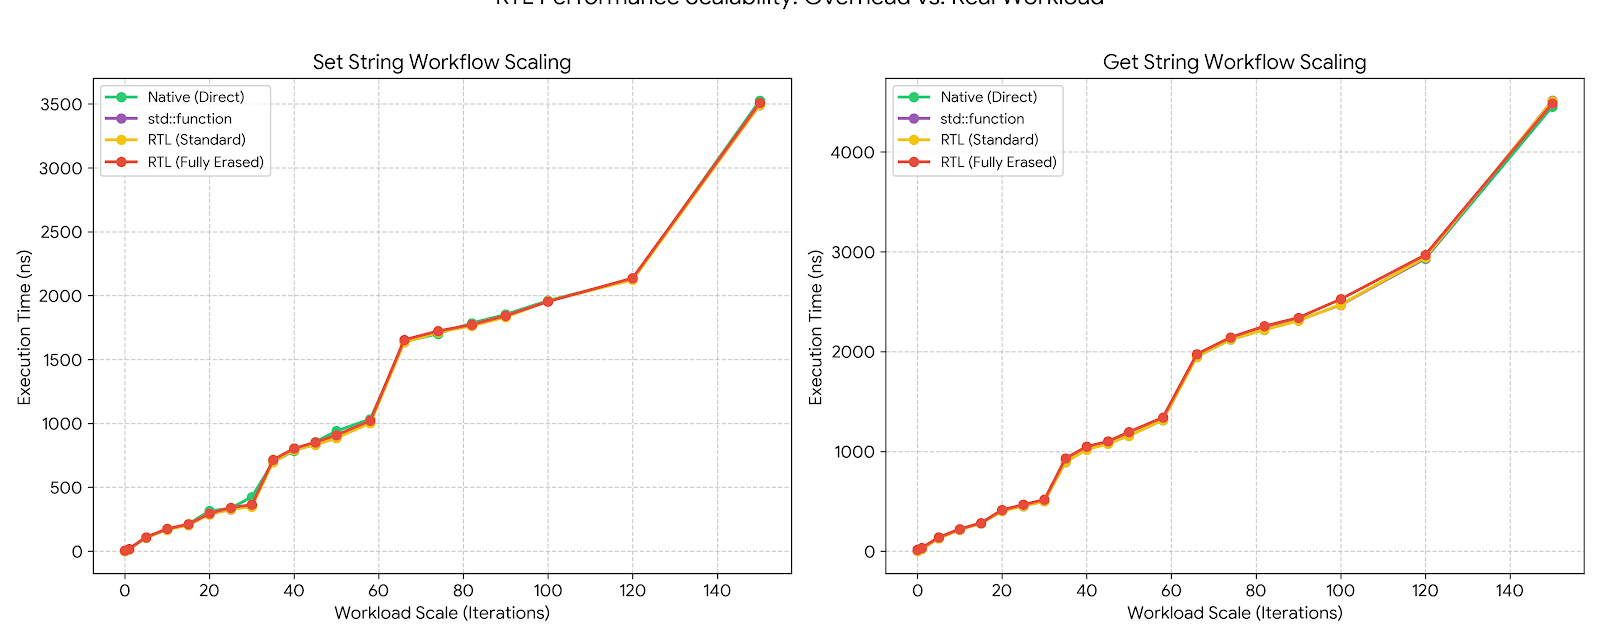
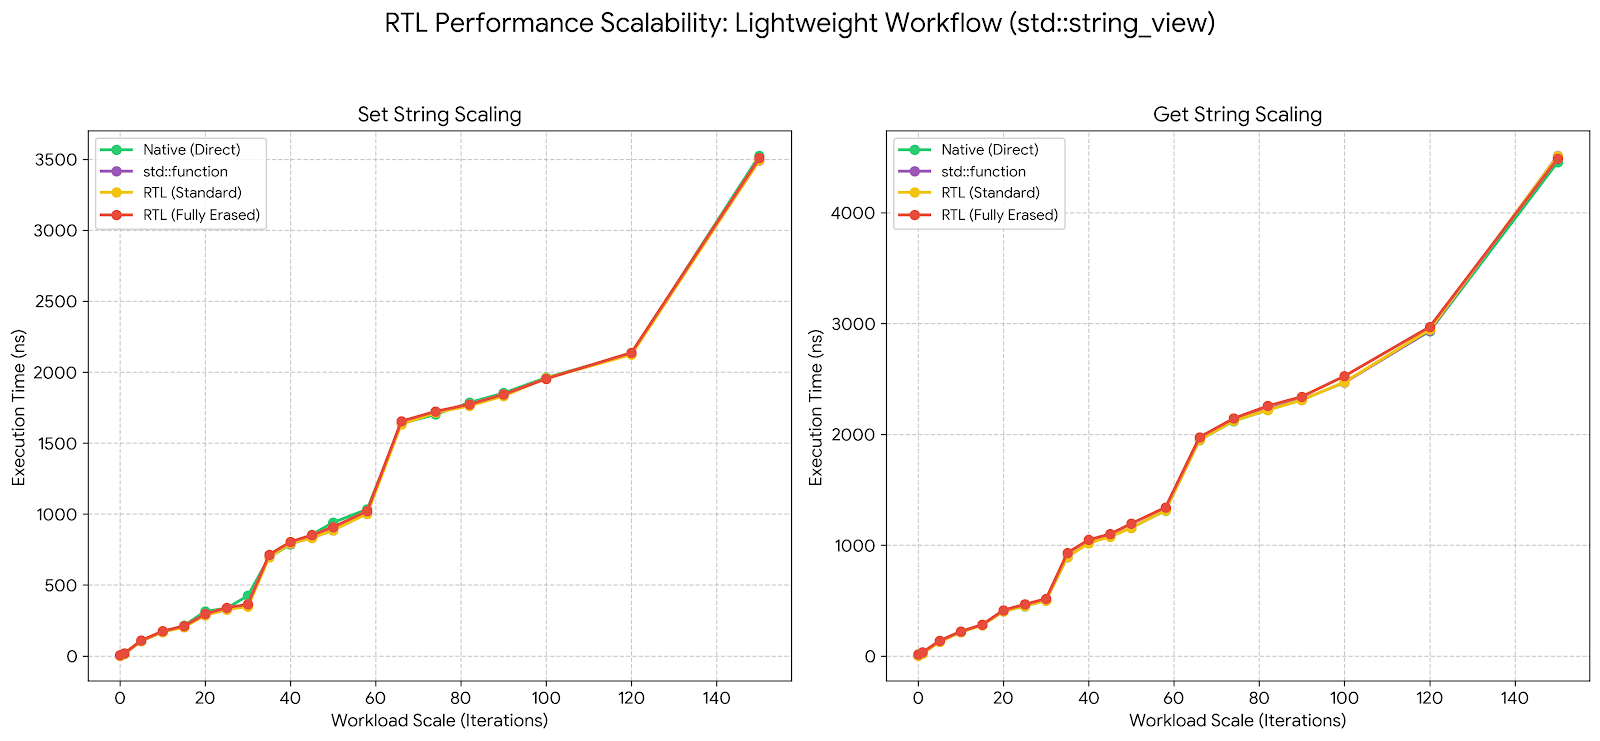
docs correction, updates.

diff --git a/docs/RTL_SYNTAX_AND_SEMANTICS.md b/docs/RTL_SYNTAX_AND_SEMANTICS.md
@@ -16,15 +16,14 @@ This guide walks you step by step through RTL’s reflection syntax.
    * [Binding an Object and Calling 🔗](#binding-an-object-and-calling)
    * [Binding Signatures and Perfect Forwarding 🎯](#binding-signatures-and-perfect-forwarding)
    * [Const vs Non-Const Method Binding ⚡](#const-vs-non-const-method-binding)
-4. [Const-by-Default Discipline 🛡](#const-by-default-discipline)
-5. [Reflective Construction and Destruction 🏗](#reflective-construction-and-destruction)
-6. [Move Semantics in RTL 🔀](#move-semantics-in-rtl)
+4. [Reflective Construction and Destruction 🏗](#reflective-construction-and-destruction)
+5. [Move Semantics in RTL 🔀](#move-semantics-in-rtl)
 
 ---
 
 ## Building the Mirror 🪞
 
-Before registering anything, you need a central place to hold all reflection metadata: the `rtl::CxxMirror`. You can create an instance, passing all type metadata through an initializer list — each type obtained via `rtl::type<T>()`.
+Before registering anything, you need a central place to hold all reflection metadata references: the `rtl::CxxMirror`. You can create an instance, passing all type metadata through an initializer list — each type obtained via `rtl::type<T>()`.
 
 ```cpp
   auto cxx_mirror = rtl::CxxMirror({
@@ -32,25 +31,25 @@ Before registering anything, you need a central place to hold all reflection met
     });
 ```
 
-Every registration statement you add here is collected into the `rtl::CxxMirror` as an `rtl::Function` object. The `CxxMirror` forms the backbone of RTL. Every type, function, or method you register ultimately gets encapsulated into this single object, serving as the gateway to query, introspect, and instantiate all registered types at runtime.
+Every registration statement you add here is collected into the `rtl::CxxMirror` as an `rtl::Function` object. The `CxxMirror` is an access-interface of RTL. Every type, function, or method you register, the metadata references gets encapsulated into this single object, serving as the gateway to query, introspect, and instantiate all registered types at runtime.
 
 ### A few key points about managing this object
 
 * ***Dispensable by design*** → The `CxxMirror` itself carries no hidden global state. You can define one central mirror, create multiple mirrors in different scopes, or even rebuild mirrors on demand. RTL imposes no restriction on how you manage its lifetime.
 
-* ***Duplicate registration is harmless*** → Identical registrations always materialize the same metadata. If a canonical function pointer is already registered, it is not added again to the lambda/functor table — the metadata simply refers back to the existing entry.
+* ***Duplicate registration is harmless*** → Identical registrations always materialize the same metadata. If a canonical function pointer is already registered, it is not added again to the metadata cache — it simply refers back to the existing entry.
 
 * ***Thread-safety guaranteed by RTL*** → No matter how you choose to manage mirrors (singleton, multiple, or transient), RTL itself guarantees synchronized, race-free registration and access across threads.
 
 * ***Overhead is deliberate*** → Each registration carries a small cost in memory and initialization time. Concretely:
-  * Every registration statement acquires a lock on the functor table.
-  * It checks whether the function or lambda is already present.
-  * If not, it adds the new entry to the lambda table and updates the functor table.
+  * Every registration statement acquires a lock on the metadata cache.
+  * It checks whether the function-pointer is already present.
+  * If not, it adds the new entry to the metadata cache.
   
-This ensures thread-safety and prevents redundant entries. While negligible for isolated registrations, this cost can accumulate when creating many mirrors or registering large numbers of types.
+This ensures thread-safety and prevents redundant entries. While negligible for isolated registrations, this cost can accumulate when initializing many mirrors in hot loops or same again and again.
 
 👉 Bottom Line
-> *"Manage `CxxMirror` however your design requires — singleton, multiple, or transient. Each registration incurs a lock and table lookup, but the cost is negligible in normal use and only noticeable when scaling to very large numbers of types."*
+> *"Manage `CxxMirror` however your design requires — singleton, multiple, or transient. Each registration incurs a lock and table lookup, but the cost is negligible in normal use and only exists at initialization time."*
 
 ---
 
@@ -146,7 +145,6 @@ if (popMessage)
     // function exists, safe to invoke
 }
 ```
-
 ---
 
 <a id="performing-reflective-calls" name="performing-reflective-calls"></a>
@@ -155,6 +153,7 @@ if (popMessage)
 
 Once you have a `rtl::Function`, a complete reflective call involves two steps:
 
+[THIS API IS REMOVED, NOW CALLABLES ARE USED. DOC NOT UPDATED YET]
 ```cpp
 auto [err, retObj] = popMessage->bind().call();
 ```
@@ -235,6 +234,7 @@ if (classPerson)
 
 ### Binding an Object and Calling 🔗
 
+[THIS API IS REMOVED, NOW CALLABLES ARE USED. DOC NOT UPDATED YET]
 ```cpp
 auto [err, retObj] = setProfile->bind(targetObj).call(std::string("Developer"));
 ```
@@ -257,6 +257,7 @@ Errors specific to member function calls:
 
 ### Binding Signatures and Perfect Forwarding 🎯
 
+[THIS API IS REMOVED, NOW CALLABLES ARE USED. DOC NOT UPDATED YET]
 ```cpp
 setProfile->bind(targetObj).call(10);          // 10 forwarded as int
 setProfile->bind<double>(targetObj).call(10);  // 10 forwarded as double (10.0)
@@ -276,6 +277,7 @@ setProfile->bind<std::string>(targetObj).call(10); // compile-time error
 
 ### Const vs Non-Const Method Binding ⚡
 
+[THIS SECTION NEEDS TO BE UPDATED AS PER THE NEW CALLABLES]
 When binding methods reflectively, RTL enforces const-correctness in a way that mirrors C++ itself, but with an extra layer of runtime safety. Let’s walk through how this works.
 
 #### Default Behavior
@@ -292,6 +294,7 @@ auto [err, ret] = someMethod->bind(robj).call();
 
 #### Choosing the Non-Const Path
 
+[THIS API IS REMOVED, NOW CALLABLES ARE USED. DOC NOT UPDATED YET]
 Sometimes you really do want the non-const overload. RTL requires you to be explicit in that case, by using `rtl::constCast()`:
 
 ```cpp
@@ -346,45 +349,6 @@ bool safe = robj.isConstCastSafe();
 
 ---
 
-<a id="const-by-default-discipline" name="const-by-default-discipline"></a>
-## Const-by-Default Discipline 🛡
-
-C++ treats **const** as a contract: a `const` object can only invoke `const` methods, and any attempt to mutate it without an explicit `const_cast` leads to undefined behavior. A non-const object, by contrast, freely chooses non-const overloads but can fall back to const ones when needed.
-
-RTL mirrors this model but strengthens it with **provenance-aware constness**. In other words, RTL distinguishes between objects it created itself and objects provided externally, applying rules that match their origin.
-
-### Two Kinds of Constness in RTL
-
-* **Logically-Const (RTL-Created)**
-
-  * Objects constructed reflectively—whether on the stack or heap—are treated as *const-first*.
-  * If a non-const overload is the only option, RTL may safely apply an internal `const_cast` because these objects were never originally declared `const`.
-  * Users can still opt into non-const explicitly via `rtl::constCast()` if both overloads exist.
-
-* **True-Const (Externally Provided)**
-
-  * Objects passed into RTL with declared `const` remain **strictly const**.
-  * RTL will never cast them internally, ensuring you can’t accidentally mutate something the compiler itself forbids.
-  * Missing const overloads result in `rtl::error::ConstOverloadMissing`. Forcing a non-const call results in `rtl::error::IllegalConstCast`.
-
-### Quick Comparison
-
-| Case                 | Native C++                                                             | RTL Behavior                                                                                                                                           |
-| -------------------- | ---------------------------------------------------------------------- | ------------------------------------------------------------------------------------------------------------------------------------------------------ |
-| **Const object**     | Only const overload allowed; non-const requires cast; mutation is UB.  | **True-const**: only const overload allowed; missing const → `ConstOverloadMissing`; forcing non-const → `IllegalConstCast`.                           |
-| **Non-const object** | Prefers non-const overload, but may call const if that’s the only one. | **Logically-const**: defaults to const; missing const but non-const present → safe fallback; both present → explicit non-const via `rtl::constCast()`. |
-
-✅ Key Takeaway
-
-RTL codifies C++’s const rules at runtime:
-
-* **True-const** objects are strictly immutable.
-* **Logically-const** objects default to immutability but can be safely relaxed when overload resolution requires it.
-
-This makes overload resolution **predictable, safe, and explicit**, giving you runtime reflection that behaves like C++—but with added clarity.
-
----
-
 <a id="reflective-construction-and-destruction" name="reflective-construction-and-destruction"></a>
 ## Reflective Construction and Destruction 🏗
 
@@ -398,6 +362,7 @@ To construct a reflected object, first grab the `Record` that represents the typ
 std::optional<rtl::Record> classPerson = cxx::mirror().getRecord("Person");
 
 // Default constructor — create on heap
+[THIS API IS REMOVED, NOW CALLABLES ARE USED. DOC NOT UPDATED YET]
 auto [err, person] = classPerson->create<alloc::Heap>();
 if (err == rtl::error::None)
 {
@@ -405,6 +370,7 @@ if (err == rtl::error::None)
 }
 
 // Overloaded constructor — this time create on stack
+[THIS API IS REMOVED, NOW CALLABLES ARE USED. DOC NOT UPDATED YET]
 auto [err, person] = classPerson->create<alloc::Stack>(
     std::string("John Doe"),
     42

diff --git a/README.md b/README.md
@@ -148,6 +148,8 @@ if (err == rtl::error::None && ret.canViewAs<std::string>()) {
 ```
 ### How RTL Fits Together
 
+[![RTL Syntax & Semantics](https://img.shields.io/badge/Doc-Syntax_&_Semantics-blueviolet)](./docs/RTL_SYNTAX_AND_SEMANTICS.md)
+&nbsp;
 [![Design Features](https://img.shields.io/badge/Doc-Design%20Features-blue)](./docs/DESIGN_PRINCIPLES_AND_FEATURES.md)
 
 At a high level, every registered C++ type is encapsulated as an `rtl::Record`. Callable entities (functions, member functions and constructors) are materialized through `rtl::Function`, `rtl::Method` and `rtl::Record`, all of which are discoverable via `rtl::CxxMirror`.
